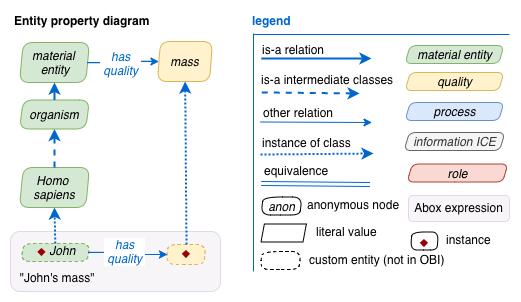
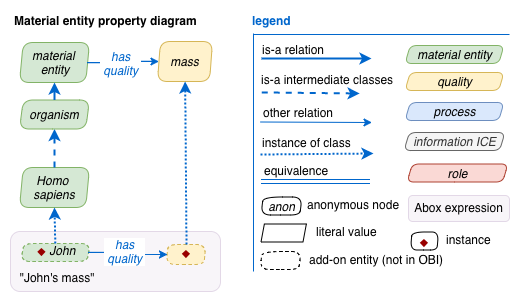
edits

Changed region(s): [[0.5835, 0.8344, 0.8599, 0.894], [0.0307, 0.0298, 0.3992, 0.0894], [0.4914, 0.5662, 0.7063, 0.6258]]

diff --git a/_pages/docs/data-intro.md b/_pages/docs/data-intro.md
@@ -22,29 +22,26 @@ The following documentation sections will focus on various parts needed to detai
 
 Under `material entity` we find OBI's **[`organism`](http://purl.obolibrary.org/obo/OBI_0100026){:target="_blank"}** - the usual focus of biomedical investigations. Organism related terms - whether in OBI or in other ontologies that cover taxonomic, anatomic, developmental, pathological, environmental etc. aspects - will likely occur in study design objectives, protocols and experimental observations.
 
-**Object property diagrams** show material entities and selected object properties (that link them to qualities) and class-subclass relations, which together illustrate OBI core "terminological component" (Tbox) contents. In the example below, a `material entity` [`has quality`](http://purl.obolibrary.org/obo/RO_0000086){:target="_blank"} some [`mass`](http://purl.obolibrary.org/obo/PATO_0000125){:target="_blank"}. (This axiom is not currently in OBI but is included to show the potential for relation inheritance). 
+**Material entity property diagrams** focus on material entities and selected object properties (that link them to qualities) and class-subclass relations, which together illustrate OBI core "terminological component" (Tbox) contents. In the example below, a `material entity` [`has quality`](http://purl.obolibrary.org/obo/RO_0000086){:target="_blank"} some [`mass`](http://purl.obolibrary.org/obo/PATO_0000125){:target="_blank"}. (This axiom is not currently in OBI but is included to show the potential for relation inheritance). 
 
 <img align="right" src="/assets/images/docs/data_john_mass_entity_property.png">
 
 Formally, `has quality` is a generic object property existing between a BFO independent continuent entity (the bearer) and a quality, which is a dependent continuent (i.e. something that depends on the existence of its continuent).  [`Homo sapiens`](http://purl.obolibrary.org/obo/NCBITaxon_9606){:target="_blank"} is shown as a descendent of `organism`, a subclass of `material entity`, so in this case the descendants also inherit a mass quality that can be referenced.  (A dashed arrow between entities indicates that several intermediate classes have been omitted).
 
-An optional rose-tinted box may be provided to illustrate how to compose instances of classes and relations - this is "assertion component" (Abox) content. Abox content can form the bulk of a triple-store graph database, with the reasoning axioms of related ontologies added separately when validation of data structures and models is desired. In this example it is stated that "John" is an instance of Homo sapiens, and bears an instance of mass (or mass quality) that can then be referenced by other expressions.
+An optional rose-tinted box may be provided to illustrate how to compose instances of classes and relations - this is "assertion component" (Abox) content. Abox content can form the bulk of a triple-store graph database, with the reasoning axioms of related ontologies added separately when validation of data structures and models is desired. In this example it is stated that "John" is an instance of Homo sapiens, and bears an instance of mass (or mass quality) that can then be referenced by other expressions. The diagram surrounds the entities of this expression by dashed perimiters to indicate that they are not provided by OBI, but rather are "add-on" entities in another application ontology.
 
 # ISSUE: How to define Quality?
 
-    **BFO:** *A quality is a specifically dependent continuant that, in contrast to roles and dispositions, does not require any further process in order to be realized.*
+    BFO: A quality is a specifically dependent continuant that, in contrast to roles and dispositions, does not require any further process in order to be realized.
 
 In other words, a specifically dependent continuant that is ALWAYS realized.
 
-    **PATO:** *A dependent entity that inheres in a bearer by virtue of how the bearer is related to other entities.*
+    PATO: A dependent entity that inheres in a bearer by virtue of how the bearer is related to other entities.
 
-There's an external factor to the perception of any quality. If a bearer has a surface, and there is another entity "light" around, then the bearer can exhibit the quality "color"?
+There's an external factor to the perception of any quality. If a bearer has a reflective surface, and there is another entity "light" around, then the bearer can exhibit the quality "color"?
 
-*A) A hard-line view is that a quality is only a directly measureable thing - something one measures instantaniously or over a short period of time.  An object's color, weight etc. This rules out age - because age is inevitably a calculation (a translation) of some other quality observation, or involves time, something not directly observable. It also rules out BMI, a calculation based on two qualities.*
+* A) A hard-line view is that a quality is only a directly measureable thing - something one measures instantaniously or over a short period of time.  An object's color, weight etc. This rules out age - because age is inevitably a calculation (a translation) of some other quality observation, or involves time, something not directly observable. It also rules out BMI, a calculation based on two qualities.*
 
 * B) A looser position is that a quality can be a product of qualities: So body mass index (BMI) is a quality because it is a function of only mass and height.*
 
-* C) Or we could let time in the door, allowing age to be a quality, a measure of interval, whose semantic bookends are not themselves qualities.*
-
-***
-<sup>1</sup>The ability of an ICE to bear information depends on the coding scheme and medium it inheres in, hence it is a generically dependent continuant.
+* C) We could also let time in the door, allowing a time instant to be a quality - of a clock or calendar say - in the context of another observation, as in "He was born on January 13, 1966".  Can durations like age can be counted as qualities?*

diff --git a/_pages/docs/data-properties.md b/_pages/docs/data-properties.md
@@ -8,15 +8,17 @@ sidebar:
 
 ### Questions: Allow "has specified value" to have domain of any ICE?  Or introduce "has value" implementation?
 
+This brings us to the collection of data - where specific protocols or instruments are used, generating data on particular scales and scientific units.  
+
 <img align="right" src="/assets/images/docs/data_lee_data_property_age.png">
 
-An ontology data property is a relation from an entity instance straight to some literal datatype (xsd:decimal, xsd:string, xsd:anyURI, etc.) that is a measure/estimate of what that data property is about. In other ontologies one might find the `has age` data property (which doesn't exist in OBI) used to express that Lee's age is 12, as shown to the right.
+An ontology data property is a relation from an entity instance straight to some literal datatype (xsd:decimal, xsd:string, xsd:anyURI, etc.) that is a measure/estimate of what that data property is about. In an ontology one might find a `has age` data property (which doesn't exist in OBI) used to express that Lee's age is 12, as shown to the right.
 
 <br clear="both">
 
 <img align="right" src="/assets/images/docs/data_lee_data_property_ages.png">
 
-The label of the data property tells humans in hopefully plain language what the value is about, but a computer will have a bad time guessing what the relation is equivalent to in other graphs that have differently named or identified relations, which spells trouble for data sharing unless the roster of data properties is already agreed upon.  As shown, the problem is magnified if other age quantities are involved.
+The label of the data property tells humans in hopefully plain language what the value is about, but a computer will have a bad time guessing what the relation is equivalent to in other graphs that have differently named or identified relations, which spells trouble for data sharing unless the roster of data properties is a common standard.  As shown, the problem is magnified if other age quantities are involved.
 
 <br clear="both">
 
@@ -28,6 +30,12 @@ In fact there are many kinds of [`ages`](http://purl.obolibrary.org/obo/OBI_0001
 
 OBI uses data properties in a very limited way, via `has measurement value`,  `has specified value`, and `has specified numeric value`, and relying on the subject of the relation to provide the `aboutness` semantics.  This approach reduces the amount of language needed to describe entities, at the cost of a bit more structure. *Most importantly it enables entities to be the focus of semantic elaboration (axioms) rather than being surrounded by opaque relations.* The `aboutness` details have the extra benefit of facilitating appropriate data exchange between ontology-driven systems.  By specifying that a string field is about a first name or a last name, maiden name, full name, SIN number, postal code, etc. this then provides the core 'aboutness' information that guides the merging and federated querying of triple store graphs.
 
+Suitable object properties:
+
+- `inheres in` or `bearer of` object property if ...???
+- `denotes` if the ICE is a type of identifier, such as a [`centrally registered identifier symbol`](http://purl.obolibrary.org/obo/IAO_0000577) like a [`specimen identifier`](http://purl.obolibrary.org/obo/OBI_0001616) or a NCIT [`identifier`](http://purl.obolibrary.org/obo/NCIT_C25364) for example.
+- 'location of' if the literal value X is locating the given entity by a geospatial reference. ????
+- 
 Now, back to the age example, it looks like we could supply various age measurements like this:
 
 <img src="/assets/images/docs/data_lee_object_property_ages.png">
@@ -35,14 +43,6 @@ Now, back to the age example, it looks like we could supply various age measurem
 Rather than establish a `has age` data property, OBI expresses that [`age`](http://purl.obolibrary.org/obo/PATO_0000011) is a quality of our entity, and then focus on defining the semantics of it and its subclasses.
 
 But is Lee a 12 year old youth, or a 12 month old toddler?  We need the unit of measure, in minutes, days, months, or years.  Data properties can't support units directly, so a second data property is required to eliminate ambiguity.
-
-<br clear="both">
-
-Suitable object properties:
-
-- 'inheres in' object property if ...???
-- 'denotes' if the ICE is a type of identifier, such as a [`centrally registered identifier symbol`](http://purl.obolibrary.org/obo/IAO_0000577) like a [`specimen identifier`](http://purl.obolibrary.org/obo/OBI_0001616) or a NCIT [`identifier`](http://purl.obolibrary.org/obo/NCIT_C25364) for example.
-- 'location of' if the literal value X is locating the given entity by a geospatial reference. ????
 
 ## Limitations
 

diff --git a/_pages/docs/data-precomposed.md b/_pages/docs/data-precomposed.md
@@ -10,11 +10,12 @@ sidebar:
 
 ## Anonymous nodes
 
-**[`Anonymous or blank nodes`](https://en.wikipedia.org/wiki/Blank_node){:target="_blank"}** play key roles in ontolgies and triple store databases for storing data and for holding logical pattern matching structures. An anonymous node contains a data structure which has not itself been given a full URI resource identifier. The diagram above shows an anonymous node (always with a dashed perimiter) that is of type `Homo sapiens` which would also have an annotation or data property of name "John", and which has a `has quality` relation to another anonymous node of type `mass`. The bulk of instance data is made with them. Internally, in a triple store database, an anonymous node has an identifier that relations can reference, but this is not a permanent URI like the ones issued to ontology terms.
+**[`Anonymous or blank nodes`](https://en.wikipedia.org/wiki/Blank_node){:target="_blank"}** play key roles in ontolgies and triple store databases for storing a classes' component axioms and for holding query pattern matching structures. An anonymous node contains a data structure which has not itself been given a full URI resource identifier. (Internally, in a triple store database, an anonymous node has an identifier that relations can reference, but this is not a permanent URI like the ones issued to ontology terms.) Anonymous nodes will occur in de-serialized triple store databases and ontologies for any bracketed conjunction or disjunction expression, for example the "(A and B)" expression in an "X subClassOf (A and B)" axiom. 
 
-Anonymous nodes will occur in de-serialized triple store databases and ontologies for any bracketed conjunction or disjunction expression, for example the "(A and B)" expression in an "X subClassOf (A and B)" axiom. 
+OBI defines various "pre-composed" [`value specifications`](http://purl.obolibrary.org/obo/OBI_0001933){:target="_blank"} including [`mass value specification`](http://purl.obolibrary.org/obo/OBI_0001929){:target="_blank"}` but it doesn't have one for color.  One can logically achieve exactly the same thing by using the expression:
 
-The other essential use of an anonymous node is to reference a class of thing without having to assign a new ontology term to it - this is called an anonymous class. For example, OBI defines various "pre-composed" [`value specifications`](http://purl.obolibrary.org/obo/OBI_0001933){:target="_blank"}` including [`mass value specification`](http://purl.obolibrary.org/obo/OBI_0001929){:target="_blank"}` but it doesn't have one for color.  For now one can logically achieve exactly the same thing by using the expression "(`value specification` and `specifies value of` only `color`)" instead. On its own, that expression will match the same set of things wherever it is used.  If it is frequently needed, that may be a sufficient reason for adding a `color value specification` term to OBI. 
+    "(`value specification` and `specifies value of` only `color`)"
 
-Anonymous node expressions are used to avoid combination bombs of terms.  For example, tuberculosis can occur in many parts of the body - pulmonary, knee, a particular bone, one of 500+ lymph nodes - but to create a term for TB x body part x location would lead to an overwhelming number of terms as far as a human is concerned (e.g. mediastinal lymph node tuberculosis), and we haven't even turned to cancer.  An ontology design question for a biomedical investigation study design is to see how much it can rely on anonymous class expressions to hold data and match patterns being sought. Conversely, which expressions are frequently used and so merit a pre-composed term? 
+On its own, that expression will match the same set of things wherever it is used.  If it is frequently needed, that may be a sufficient reason for adding a `color value specification` term to OBI. 
 
+Anonymous node expressions are used to avoid combination bombs of terms.  For example, tuberculosis can occur in many parts of the body - pulmonary, knee, a particular bone, one of 500+ lymph nodes - but to create a term for TB x body part x location would lead to an overwhelming number of terms as far as a human is concerned (e.g. mediastinal lymph node tuberculosis), and we haven't even turned to cancer.  An ontology design question for a biomedical investigation study design is to see how much it can rely on anonymous class expressions to hold data and match patterns being sought. Conversely, which expressions are frequently used and so merit a pre-composed term?

diff --git a/_pages/docs/process-intro.md b/_pages/docs/process-intro.md
@@ -11,7 +11,7 @@ sidebar:
 
 [//]: # (Please put comments like this one into the text to communicate with other OBI-ers)
 
-Generally a **[`process`](http://purl.obolibrary.org/obo/BFO_0000015){:target="_blank"}** can have other processes as parts, and can have instances with start and end times associated with them.  A **[`planned process`](http://purl.obolibrary.org/obo/OBI_0000011){:target="_blank"}** is carried out by agent(s) who are guided by some kind of **[`plan specification`](http://purl.obolibrary.org/obo/IAO_0000104){:target="_blank"}**, an ICE which has **[`objective`](http://purl.obolibrary.org/obo/IAO_0000005){:target="_blank"}** and **[`action`](http://purl.obolibrary.org/obo/IAO_0000007){:target="_blank"}** components. A **[`study design`](http://purl.obolibrary.org/obo/OBI_0500000){:target="_blank"}** and its **[`protocol`](http://purl.obolibrary.org/obo/OBI_0000272){:target="_blank"}** part(s) are subclasses of `plan specification`. This is documented in the [`Study Design`]() page.
+Generally a **[`process`](http://purl.obolibrary.org/obo/BFO_0000015){:target="_blank"}** can have other processes as parts, and can have instances with start and end times associated with them.  A **[`planned process`](http://purl.obolibrary.org/obo/OBI_0000011){:target="_blank"}** is carried out by agent(s) who are guided by some kind of **[`plan specification`](http://purl.obolibrary.org/obo/IAO_0000104){:target="_blank"}**, an ICE which has **[`objective`](http://purl.obolibrary.org/obo/IAO_0000005){:target="_blank"}** and **[`action`](http://purl.obolibrary.org/obo/IAO_0000007){:target="_blank"}** components. A **[`study design`](http://purl.obolibrary.org/obo/OBI_0500000){:target="_blank"}** and its **[`protocol`](http://purl.obolibrary.org/obo/OBI_0000272){:target="_blank"}** part(s) are subclasses of `plan specification`. This is documented in the [`Core Classes`](/docs/core-classes/) page.
 
 <img align="right" src="/assets/images/docs/data_assay_2.png">
 
@@ -43,4 +43,4 @@ Processes can have other participants besides inputs and outputs, such as operat
 
 <img align="right" src="/assets/images/docs/data_processed_material.png">
 
-Processes don't necessarily generate information products.  The OBI [`material processing`](http://purl.obolibrary.org/obo/OBI_0000094){:target="_blank"} class covers many kinds of process such as sample preparation, manufacturing, and staining. [`processed specimen`](http://purl.obolibrary.org/obo/OBI_0000953){:target="_blank"} is likely needed as part of experimental protocol modeling involving biosamples. It remains a material entity, rather than a `data item` that assays output.
+Processes don't necessarily generate information products.  The OBI [`material processing`](http://purl.obolibrary.org/obo/OBI_0000094){:target="_blank"} class covers many kinds of process such as sample preparation, manufacturing, and staining. [`Processed specimen`](http://purl.obolibrary.org/obo/OBI_0000953){:target="_blank"} is likely needed as part of experimental protocol modeling involving biosamples. It remains a material entity, rather than a `data item` that assays output.

diff --git a/_pages/docs/data-ice.md b/_pages/docs/data-ice.md
@@ -9,8 +9,6 @@ sidebar:
 
 All information items that are derived from material entities (i.e. statements that reference material qualities and are factual claims about an entity) fall under the domain of **[`information content entity`](http://purl.obolibrary.org/obo/IAO_0000030){:target="_blank"}** (ICE), very generally defined as a type of entity which bears information about something<sup>1</sup>.  Any ICE class may have **[`is about`](http://purl.obolibrary.org/obo/IAO_0000136){:target="_blank"}** object relations that connect it to other material entities or ICEs which define its _aboutness_.  Examples: an "[`age since planting measurement datum`](http://purl.obolibrary.org/obo/OBI_0001156){:target="_blank"} `is about` some [`Spermatophyta`](http://purl.obolibrary.org/obo/NCBITaxon_58024){:target="_blank"}" (among other things); a "[`minimal inhibitory concentration`](http://purl.obolibrary.org/obo/OBI_0001514){:target="_blank"} `is about` some [`dose response curve`](http://purl.obolibrary.org/obo/OBI_0001172){:target="_blank"}", another ICE.  Aboutness axioms should reinforce the content of term definitions.  
 
-[//]: #(The defining characteristic of an `Information Content Entity` is that it is 'about' something. Thus, the scope of the OBI representation of data is to capture the details and characteristics of the information, rather than the thing that it describes. This is a crucial scoping step in developing representations in OBI.)
-
 <img align="right" src="/assets/images/docs/data_iao_branch.png">
 
 The `information content entity` **[`data item`](http://purl.obolibrary.org/obo/IAO_0000027){:target="_blank"}** class holds singular entities or collections of entities that specifically record inputs or outputs of processes / equipment / human interaction. OBI distinguishes the following singular types of data items, usually called "datums", as follows:
@@ -19,4 +17,7 @@ The `information content entity` **[`data item`](http://purl.obolibrary.org/obo/
 * A **[`settings datum`](http://purl.obolibrary.org/obo/IAO_0000140){:target="_blank"}** class which enables modeling an apparatus control input.
 * A **[`predicted data item`](http://purl.obolibrary.org/obo/OBI_0302867){:target="_blank"}** class that applies to output of a [`prediction`](http://purl.obolibrary.org/obo/OBI_0302910){:target="_blank"} process.
 
-All ICEs are allowed a **[`value specification`](http://purl.obolibrary.org/obo/OBI_0001933){:target="_blank"}** that records some pertinent categorical or numeric value about an entity; more on this in the data collection section.
+All ICEs are allowed a **[`value specification`](http://purl.obolibrary.org/obo/OBI_0001933){:target="_blank"}** that records some pertinent categorical or numeric value about an entity; more on this in the [`value specification`](/docs/data-vs/) section.
+
+***
+<sup>1</sup>The ability of an ICE to bear information depends on the coding scheme and medium it inheres in, hence it is a generically dependent continuant.

diff --git a/_pages/docs/data-vs.md b/_pages/docs/data-vs.md
@@ -9,11 +9,12 @@ sidebar:
 
 # Value Specifications
 
-This brings us to the collection of data - where specific protocols or instruments are used, generating data on particular scales and scientific units.  One can have data about entities which bear various qualities, and their value specifications, without necessarily having connections to a model layer of processes and datums.  One can document tabular data column metadata independently of experimental protocol process descriptions that explain how the data was generated.  Here **value specification diagrams** are useful for showing a given observation's type of variable and permitted units. This diagram and modelling approach can exist independently of process modelling, but is designed to fit seamlessly with it as well.
 
 <img align="right" src="/assets/images/docs/data_john_mass_value_spec.png">
 
 To establish constraints on what a datum can have for a value, OBI introduces a **[`value specification`](http://purl.obolibrary.org/obo/OBI_0001933){:target="_blank"}** (VS) class which can express those constraints in axioms (for example pertinent numeric data type, units, or valid categorical choices). An instance of a value specification can have a **[`has specified value`](http://purl.obolibrary.org/obo/OBI_0002135){:target="_blank"}** data property that holds its literal value. A value specification details allowable values for a given purpose. 
+
+Here **value specification diagrams** are useful for showing a given observation's type of variable and permitted units. This diagram and modelling approach can fit seamlessly with process modelling, but it can be stand-alone as well.  As shown, one can have data about entities which bear various qualities, and their value specifications, without necessarily having connections to a model layer of processes and datums. Tabular data column metadata can be detailed independently of experimental protocol process descriptions that explain how the data was generated.  
 
 Explanations of the different types of categorical, numeric and datetime value specifications are contained in the [`Data Types`](data-types.md) documentation. Background information on how the value specification concept was developed is [here](https://github.com/obi-ontology/obi-legacy-svn/blob/master/trunk/src/examples/development/data-prototype.pdf){:target="_blank"}.  Other related OBI repository issues: [#870](https://github.com/obi-ontology/obi/issues/870){:target="_blank"}, [#945](https://github.com/obi-ontology/obi/issues/945){:target="_blank"} and [#833](https://github.com/obi-ontology/obi/issues/833){:target="_blank"}.
 
